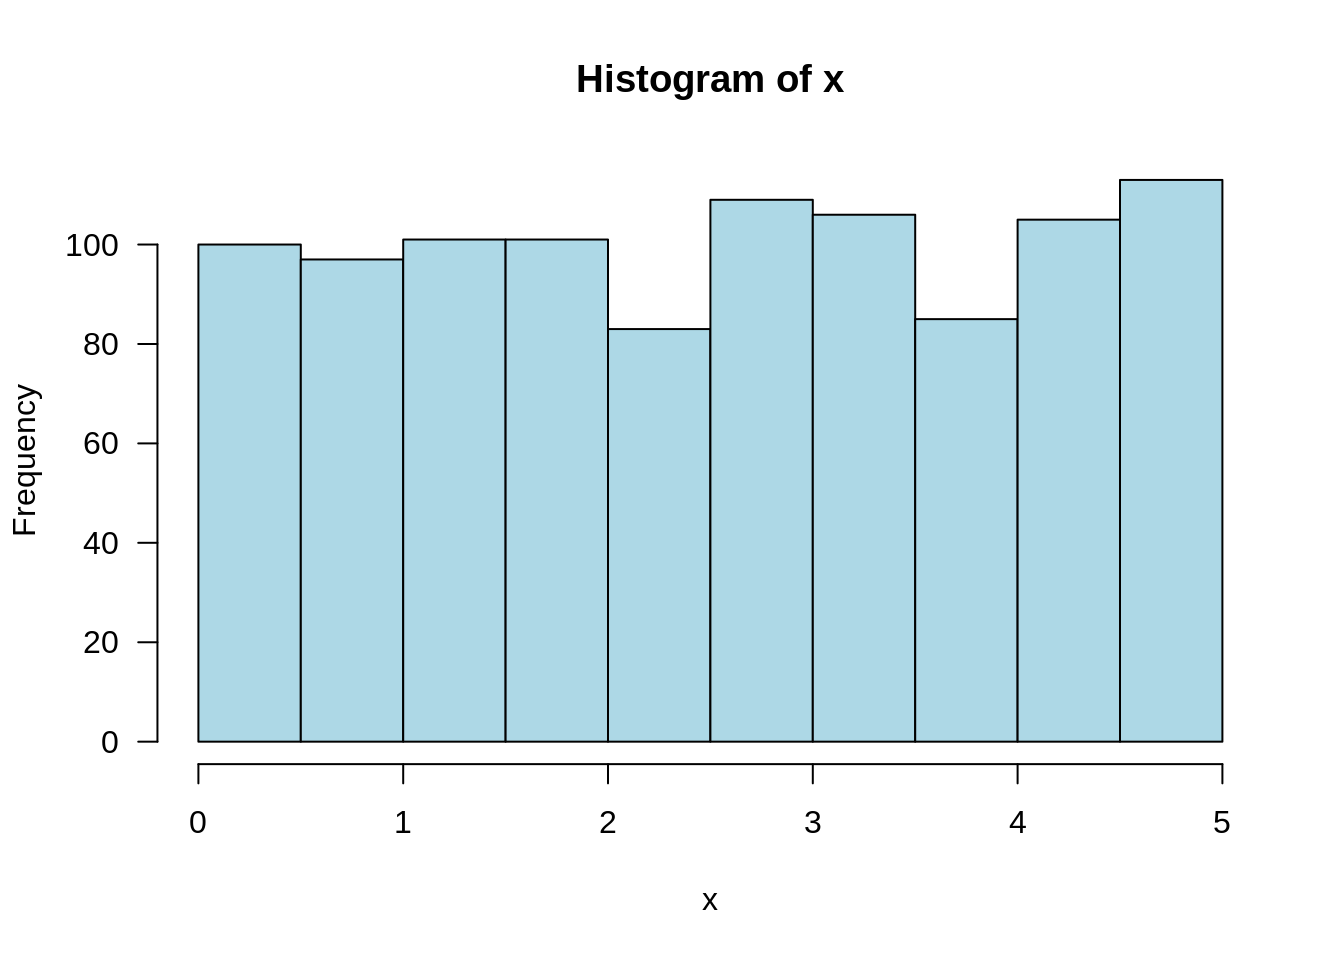
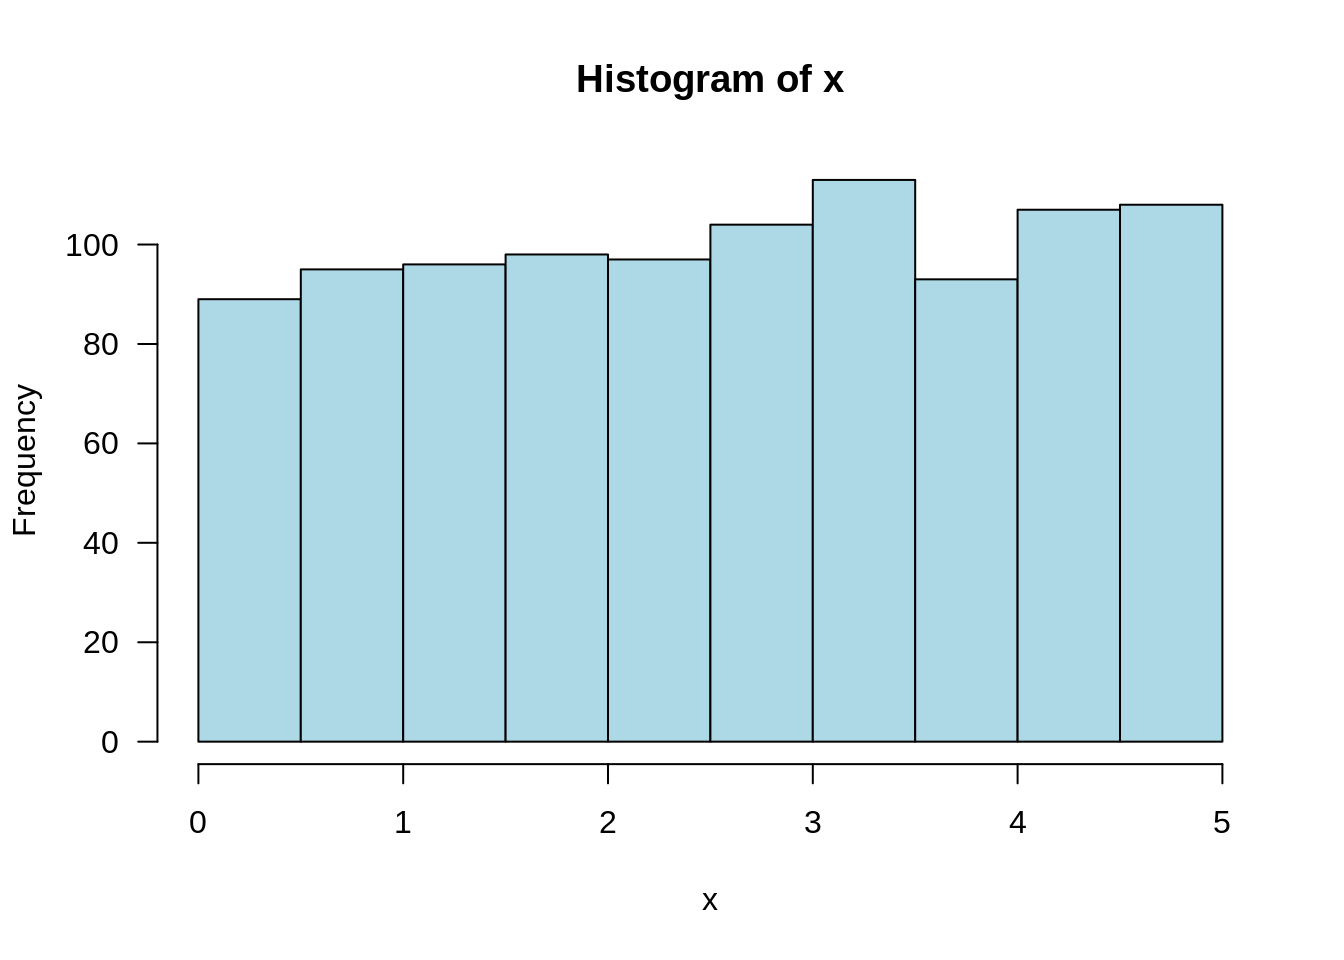
jtr13 published a site update

diff --git a/ch.-4-continuous-random-variables-and-probability-distributions.html b/ch.-4-continuous-random-variables-and-probability-distributions.html
@@ -24,7 +24,7 @@
 <meta name="author" content="Joyce Robbins" />
 
 
-<meta name="date" content="2021-09-25" />
+<meta name="date" content="2021-10-02" />
 
   <meta name="viewport" content="width=device-width, initial-scale=1" />
   <meta name="apple-mobile-web-app-capable" content="yes" />
@@ -271,11 +271,11 @@ code span.wa { color: #60a0b0; font-weight: bold; font-style: italic; } /* Warni
 <p>Randomly choose one number from the distribution:</p>
 <p><span class="math inline">\(f(x) = .2\)</span> for <span class="math inline">\(0 \leq x \leq 5\)</span>, 0 otherwise.</p>
 <div class="sourceCode" id="cb151"><pre class="sourceCode r"><code class="sourceCode r"><span id="cb151-1"><a href="ch.-4-continuous-random-variables-and-probability-distributions.html#cb151-1"></a><span class="kw">runif</span>(<span class="dt">n =</span> <span class="dv">1</span>, <span class="dt">min =</span> <span class="dv">0</span>, <span class="dt">max =</span> <span class="dv">5</span>)</span></code></pre></div>
-<pre><code>## [1] 0.8604389</code></pre>
+<pre><code>## [1] 1.933776</code></pre>
 <p>Take the average of 1000 picks:</p>
 <div class="sourceCode" id="cb153"><pre class="sourceCode r"><code class="sourceCode r"><span id="cb153-1"><a href="ch.-4-continuous-random-variables-and-probability-distributions.html#cb153-1"></a>x &lt;-<span class="st"> </span><span class="kw">runif</span>(<span class="dt">n =</span> <span class="dv">1000</span>, <span class="dt">min =</span> <span class="dv">0</span>, <span class="dt">max =</span> <span class="dv">5</span>)</span>
 <span id="cb153-2"><a href="ch.-4-continuous-random-variables-and-probability-distributions.html#cb153-2"></a><span class="kw">mean</span>(x)</span></code></pre></div>
-<pre><code>## [1] 2.530113</code></pre>
+<pre><code>## [1] 2.570057</code></pre>
 <p>Draw a histogram of the 1000 picks:</p>
 <div class="sourceCode" id="cb155"><pre class="sourceCode r"><code class="sourceCode r"><span id="cb155-1"><a href="ch.-4-continuous-random-variables-and-probability-distributions.html#cb155-1"></a><span class="kw">hist</span>(x, <span class="dt">las =</span> <span class="dv">1</span>, <span class="dt">col =</span> <span class="st">&quot;lightblue&quot;</span>)</span></code></pre></div>
 <p><img src="STAT1201-resource_files/figure-html/unnamed-chunk-41-1.png" width="672" /></p>

diff --git a/index.html b/index.html
@@ -24,7 +24,7 @@
 <meta name="author" content="Joyce Robbins" />
 
 
-<meta name="date" content="2021-09-25" />
+<meta name="date" content="2021-10-02" />
 
   <meta name="viewport" content="width=device-width, initial-scale=1" />
   <meta name="apple-mobile-web-app-capable" content="yes" />
@@ -262,7 +262,7 @@ code span.wa { color: #60a0b0; font-weight: bold; font-style: italic; } /* Warni
 <div id="header">
 <h1 class="title">Stat 1201 Resources</h1>
 <p class="author"><em>Joyce Robbins</em></p>
-<p class="date"><em>2021-09-25</em></p>
+<p class="date"><em>2021-10-02</em></p>
 </div>
 <div id="introduction" class="section level1 unnumbered">
 <h1>Introduction</h1>

diff --git a/404.html b/404.html
@@ -24,7 +24,7 @@
 <meta name="author" content="Joyce Robbins" />
 
 
-<meta name="date" content="2021-09-25" />
+<meta name="date" content="2021-10-02" />
 
   <meta name="viewport" content="width=device-width, initial-scale=1" />
   <meta name="apple-mobile-web-app-capable" content="yes" />

diff --git a/ch.-1-descriptive-statistics.html b/ch.-1-descriptive-statistics.html
@@ -24,7 +24,7 @@
 <meta name="author" content="Joyce Robbins" />
 
 
-<meta name="date" content="2021-09-25" />
+<meta name="date" content="2021-10-02" />
 
   <meta name="viewport" content="width=device-width, initial-scale=1" />
   <meta name="apple-mobile-web-app-capable" content="yes" />

diff --git a/ch.-12-linear-regression.html b/ch.-12-linear-regression.html
@@ -24,7 +24,7 @@
 <meta name="author" content="Joyce Robbins" />
 
 
-<meta name="date" content="2021-09-25" />
+<meta name="date" content="2021-10-02" />
 
   <meta name="viewport" content="width=device-width, initial-scale=1" />
   <meta name="apple-mobile-web-app-capable" content="yes" />

diff --git a/ch.-2-conditional-probability.html b/ch.-2-conditional-probability.html
@@ -24,7 +24,7 @@
 <meta name="author" content="Joyce Robbins" />
 
 
-<meta name="date" content="2021-09-25" />
+<meta name="date" content="2021-10-02" />
 
   <meta name="viewport" content="width=device-width, initial-scale=1" />
   <meta name="apple-mobile-web-app-capable" content="yes" />

diff --git a/ch.-2-probability.html b/ch.-2-probability.html
@@ -24,7 +24,7 @@
 <meta name="author" content="Joyce Robbins" />
 
 
-<meta name="date" content="2021-09-25" />
+<meta name="date" content="2021-10-02" />
 
   <meta name="viewport" content="width=device-width, initial-scale=1" />
   <meta name="apple-mobile-web-app-capable" content="yes" />

diff --git a/ch.-3-discrete-distributions.html b/ch.-3-discrete-distributions.html
@@ -24,7 +24,7 @@
 <meta name="author" content="Joyce Robbins" />
 
 
-<meta name="date" content="2021-09-25" />
+<meta name="date" content="2021-10-02" />
 
   <meta name="viewport" content="width=device-width, initial-scale=1" />
   <meta name="apple-mobile-web-app-capable" content="yes" />

diff --git a/ch.-5-joint-probability.html b/ch.-5-joint-probability.html
@@ -24,7 +24,7 @@
 <meta name="author" content="Joyce Robbins" />
 
 
-<meta name="date" content="2021-09-25" />
+<meta name="date" content="2021-10-02" />
 
   <meta name="viewport" content="width=device-width, initial-scale=1" />
   <meta name="apple-mobile-web-app-capable" content="yes" />

diff --git a/ch.-5-random-samples.html b/ch.-5-random-samples.html
@@ -24,7 +24,7 @@
 <meta name="author" content="Joyce Robbins" />
 
 
-<meta name="date" content="2021-09-25" />
+<meta name="date" content="2021-10-02" />
 
   <meta name="viewport" content="width=device-width, initial-scale=1" />
   <meta name="apple-mobile-web-app-capable" content="yes" />

diff --git a/ch.-6-point-estimation.html b/ch.-6-point-estimation.html
@@ -24,7 +24,7 @@
 <meta name="author" content="Joyce Robbins" />
 
 
-<meta name="date" content="2021-09-25" />
+<meta name="date" content="2021-10-02" />
 
   <meta name="viewport" content="width=device-width, initial-scale=1" />
   <meta name="apple-mobile-web-app-capable" content="yes" />

diff --git a/ch.-7-statistical-intervals-based-on-a-single-sample.html b/ch.-7-statistical-intervals-based-on-a-single-sample.html
@@ -24,7 +24,7 @@
 <meta name="author" content="Joyce Robbins" />
 
 
-<meta name="date" content="2021-09-25" />
+<meta name="date" content="2021-10-02" />
 
   <meta name="viewport" content="width=device-width, initial-scale=1" />
   <meta name="apple-mobile-web-app-capable" content="yes" />
